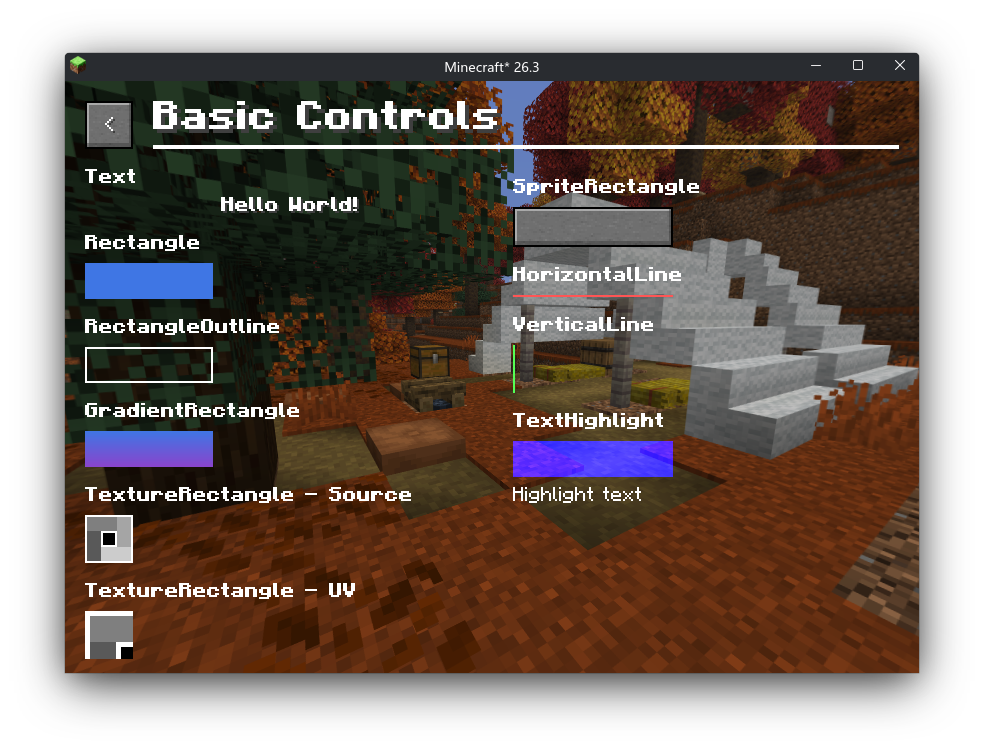
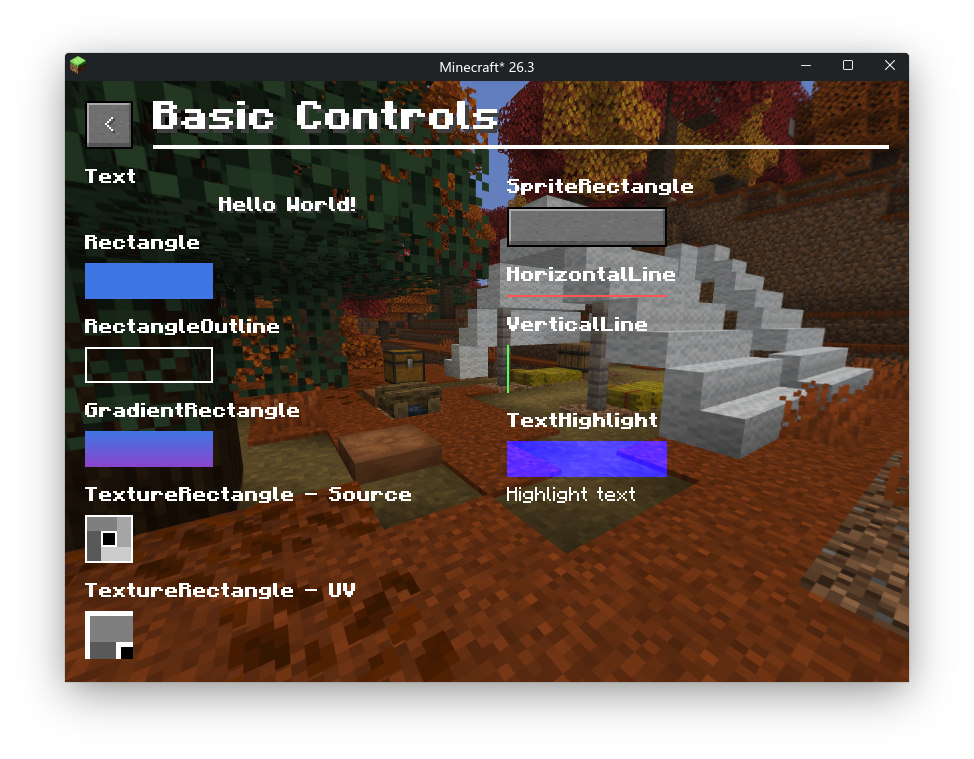
fix(demo): 修复 `Layout & Widgets` 页里缺失的标题下划线

Changed region(s): [[0.0308, 0.0613, 0.9548, 0.9507], [0.6468, 0.828, 0.7084, 0.8587], [0.7084, 0.7973, 0.7392, 0.828]]

diff --git a/src/main/java/me/hua/gridium/screen/DemoWidgetsScreen.java b/src/main/java/me/hua/gridium/screen/DemoWidgetsScreen.java
@@ -48,6 +48,9 @@ public class DemoWidgetsScreen extends Screen {
 		grid.add(new Text(font, Component.literal("§lLayout & Widget"), 0xFFFFFFFF, true)
 				.setLayoutScale(2, 2)
 				.setMargin(new Thickness(44, 10, 10, 0))
+		).add(new Rectangle(width - (24 + 10 + 10) - 10, 2, 0xFFFFFFFF)
+				.setHorizontalAlignment(HorizontalAlignment.RIGHT)
+				.setMargin(new Thickness(0, 10 + 24 - 2, 10, 0))
 		);
 
 		var leftColumn = new StackPanel().setSpacing(8);

diff --git a/CHANGELOG.zh.md b/CHANGELOG.zh.md
@@ -1,5 +1,11 @@
 # Change Logs
 
+## 1.0.1+26.3
+
+### 修复
+
+* 修复 `Layout & Widgets` 页里缺失的标题下划线
+
 ## 1.0.0+26.3
 
 * 发布第一个正式版！
